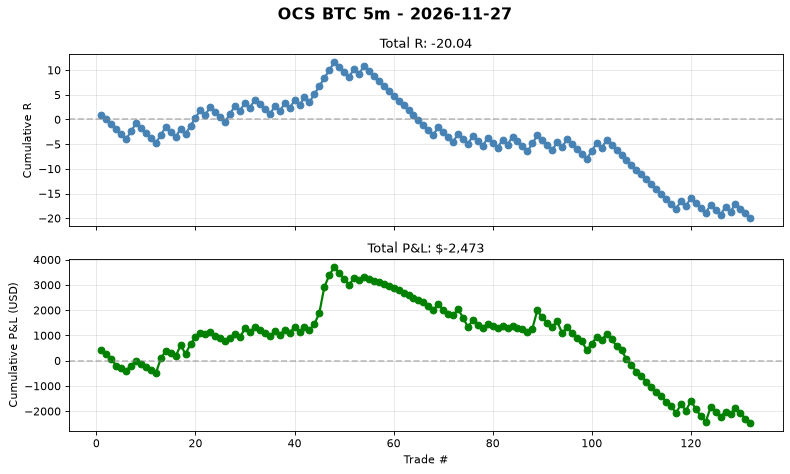
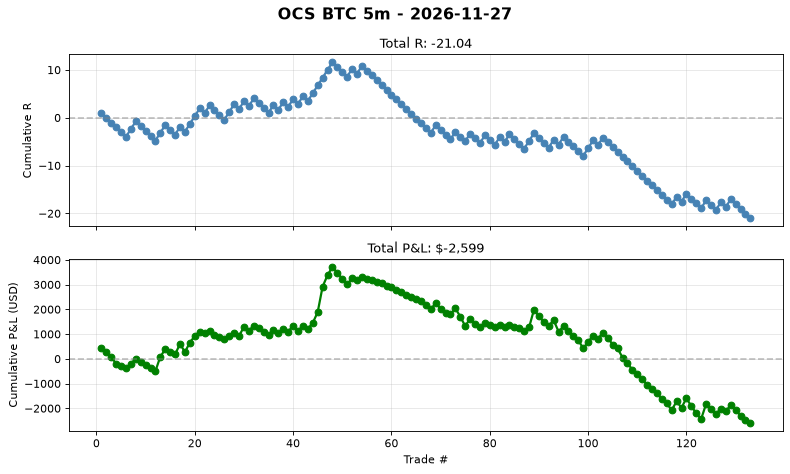
auto(ocs-btc): signal log 2026-11-27T05:02 trades=133

diff --git a/automation/reports/ocs_btc_5m/daily/2026-11-27.md b/automation/reports/ocs_btc_5m/daily/2026-11-27.md
@@ -1,5 +1,37 @@
 # OCS BTC 5m - 2026-11-27
 
-**No trades today.**
+## Summary
+- **Trades**: 1 (0W / 1L)
+- **Win Rate**: 0.0%
+- **Total R**: -1.00R
+- **Total P&L**: $-126
+- **Avg R**: -1.00R
+- **Profit Factor**: 0.77
 
-Cumulative stats: 132 trades | WR 32.6% | avg R -0.152
+## Exit Breakdown
+- T1 (+1.0R): 1
+- T2 (+1.618R): 42
+- T3 (+2.618R): 0
+- T4 (+3.618R): 0
+- T5 (+5.0R): 0
+- SL (-1.0R): 90
+
+## Best Trade
+- **SHORT** at 60,419 -> SL 60,544
+- R = -1.00, P&L = $-126
+- Held for 11 bars
+
+## Worst Trade
+- **SHORT** at 60,419 -> SL 60,544
+- R = -1.00, P&L = $-126
+- Held for 11 bars
+
+## Cumulative Stats (Lifetime)
+- Total trades: 133
+- WR: 32.3%
+- Avg R: -0.158
+- Total R: -21.04R
+- Profit Factor: 0.77
+
+## Chart
+See `daily/2026-11-27.png` for cumulative P&L curve.
